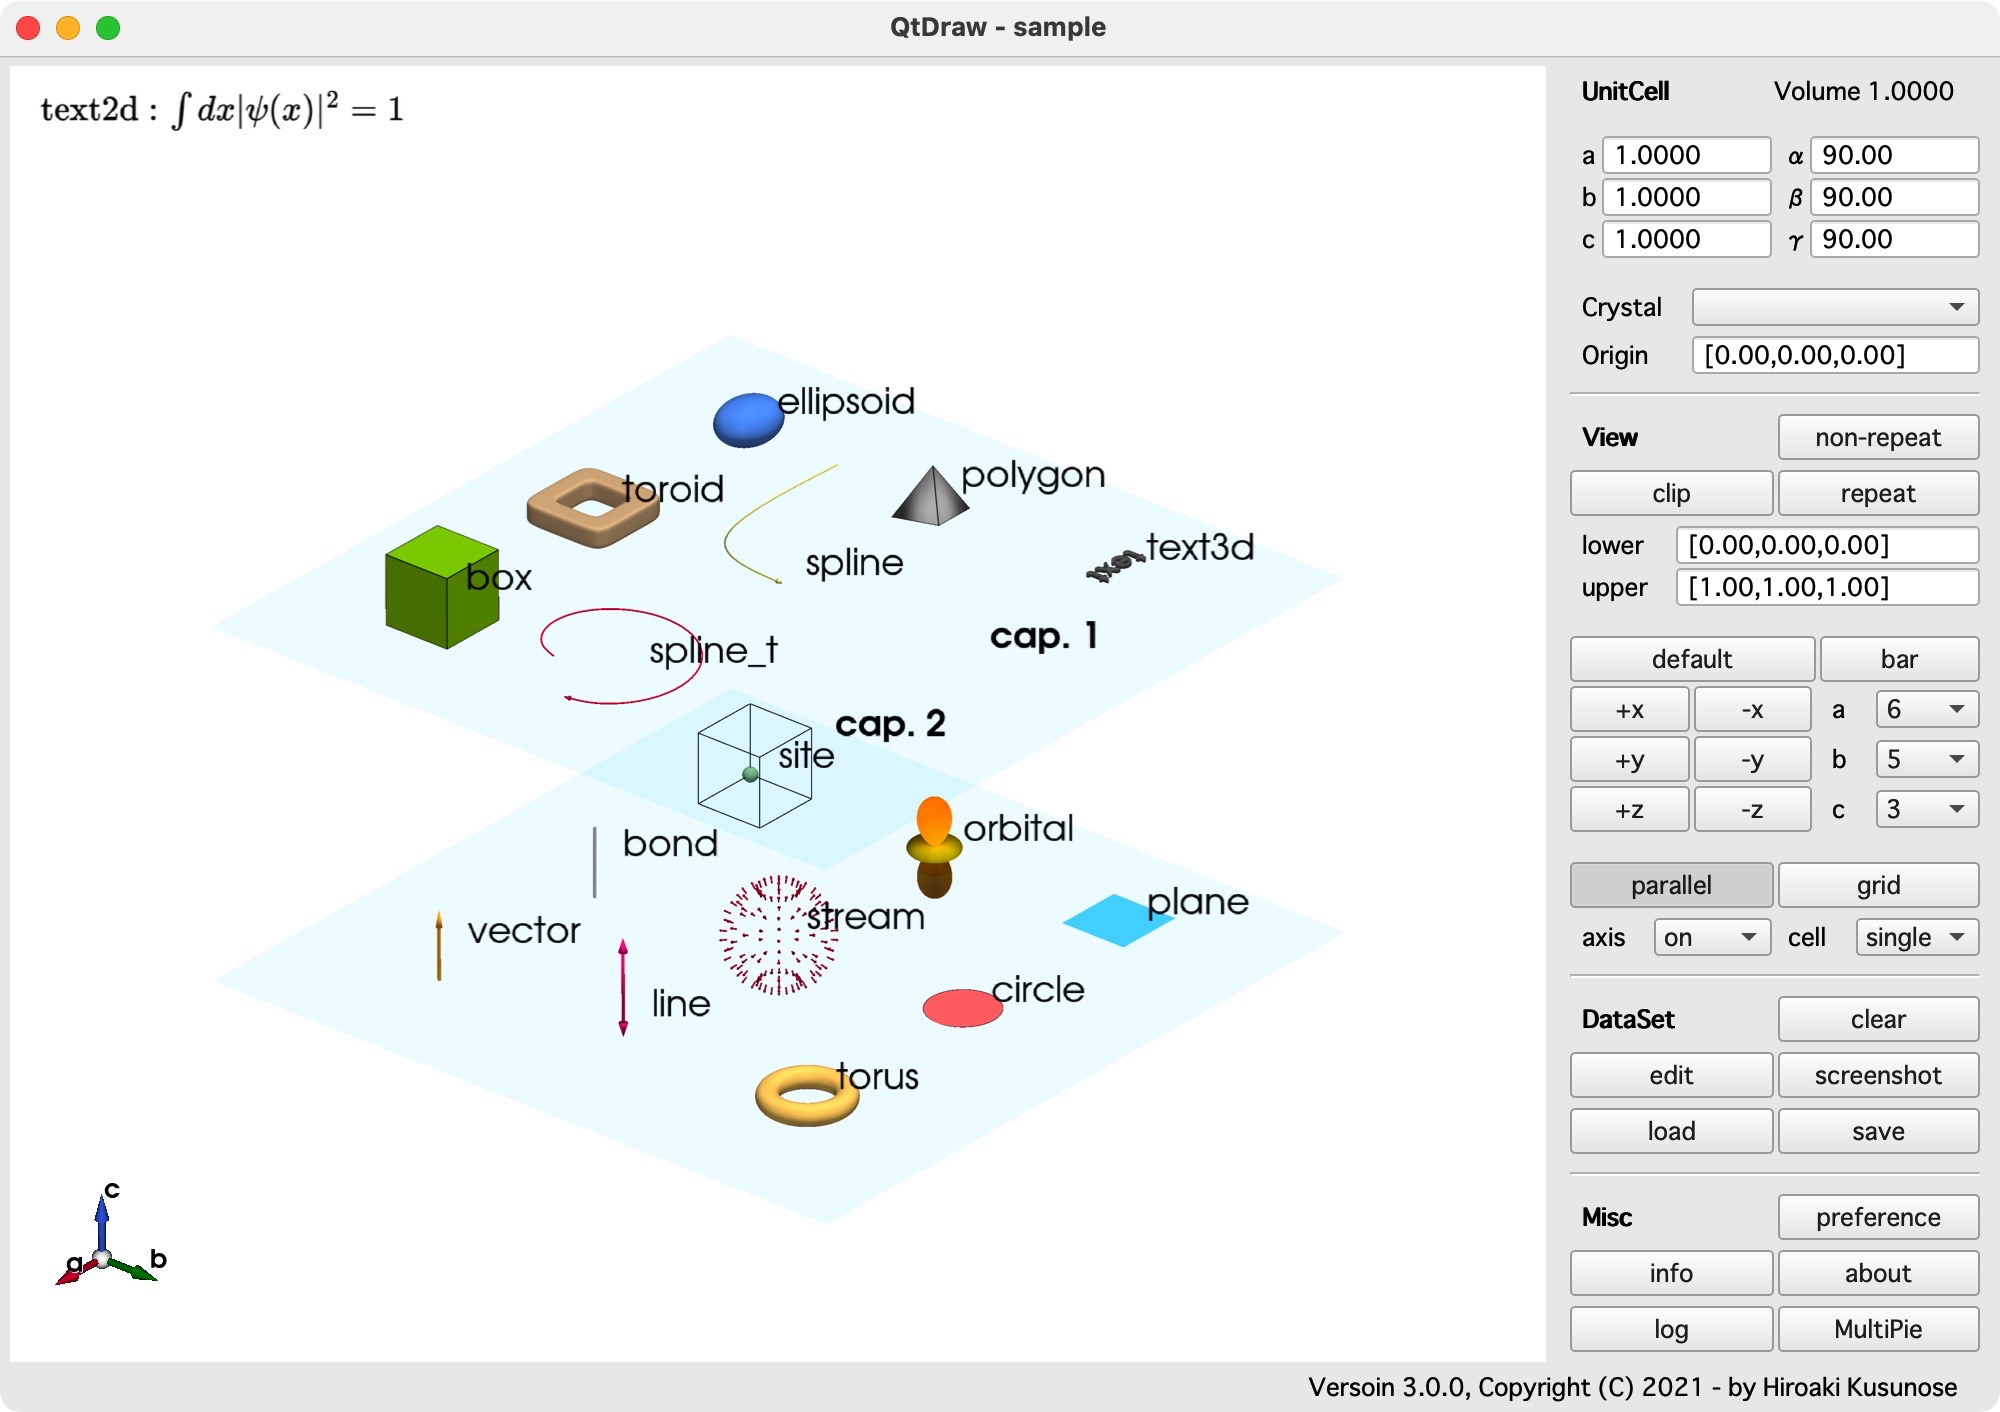
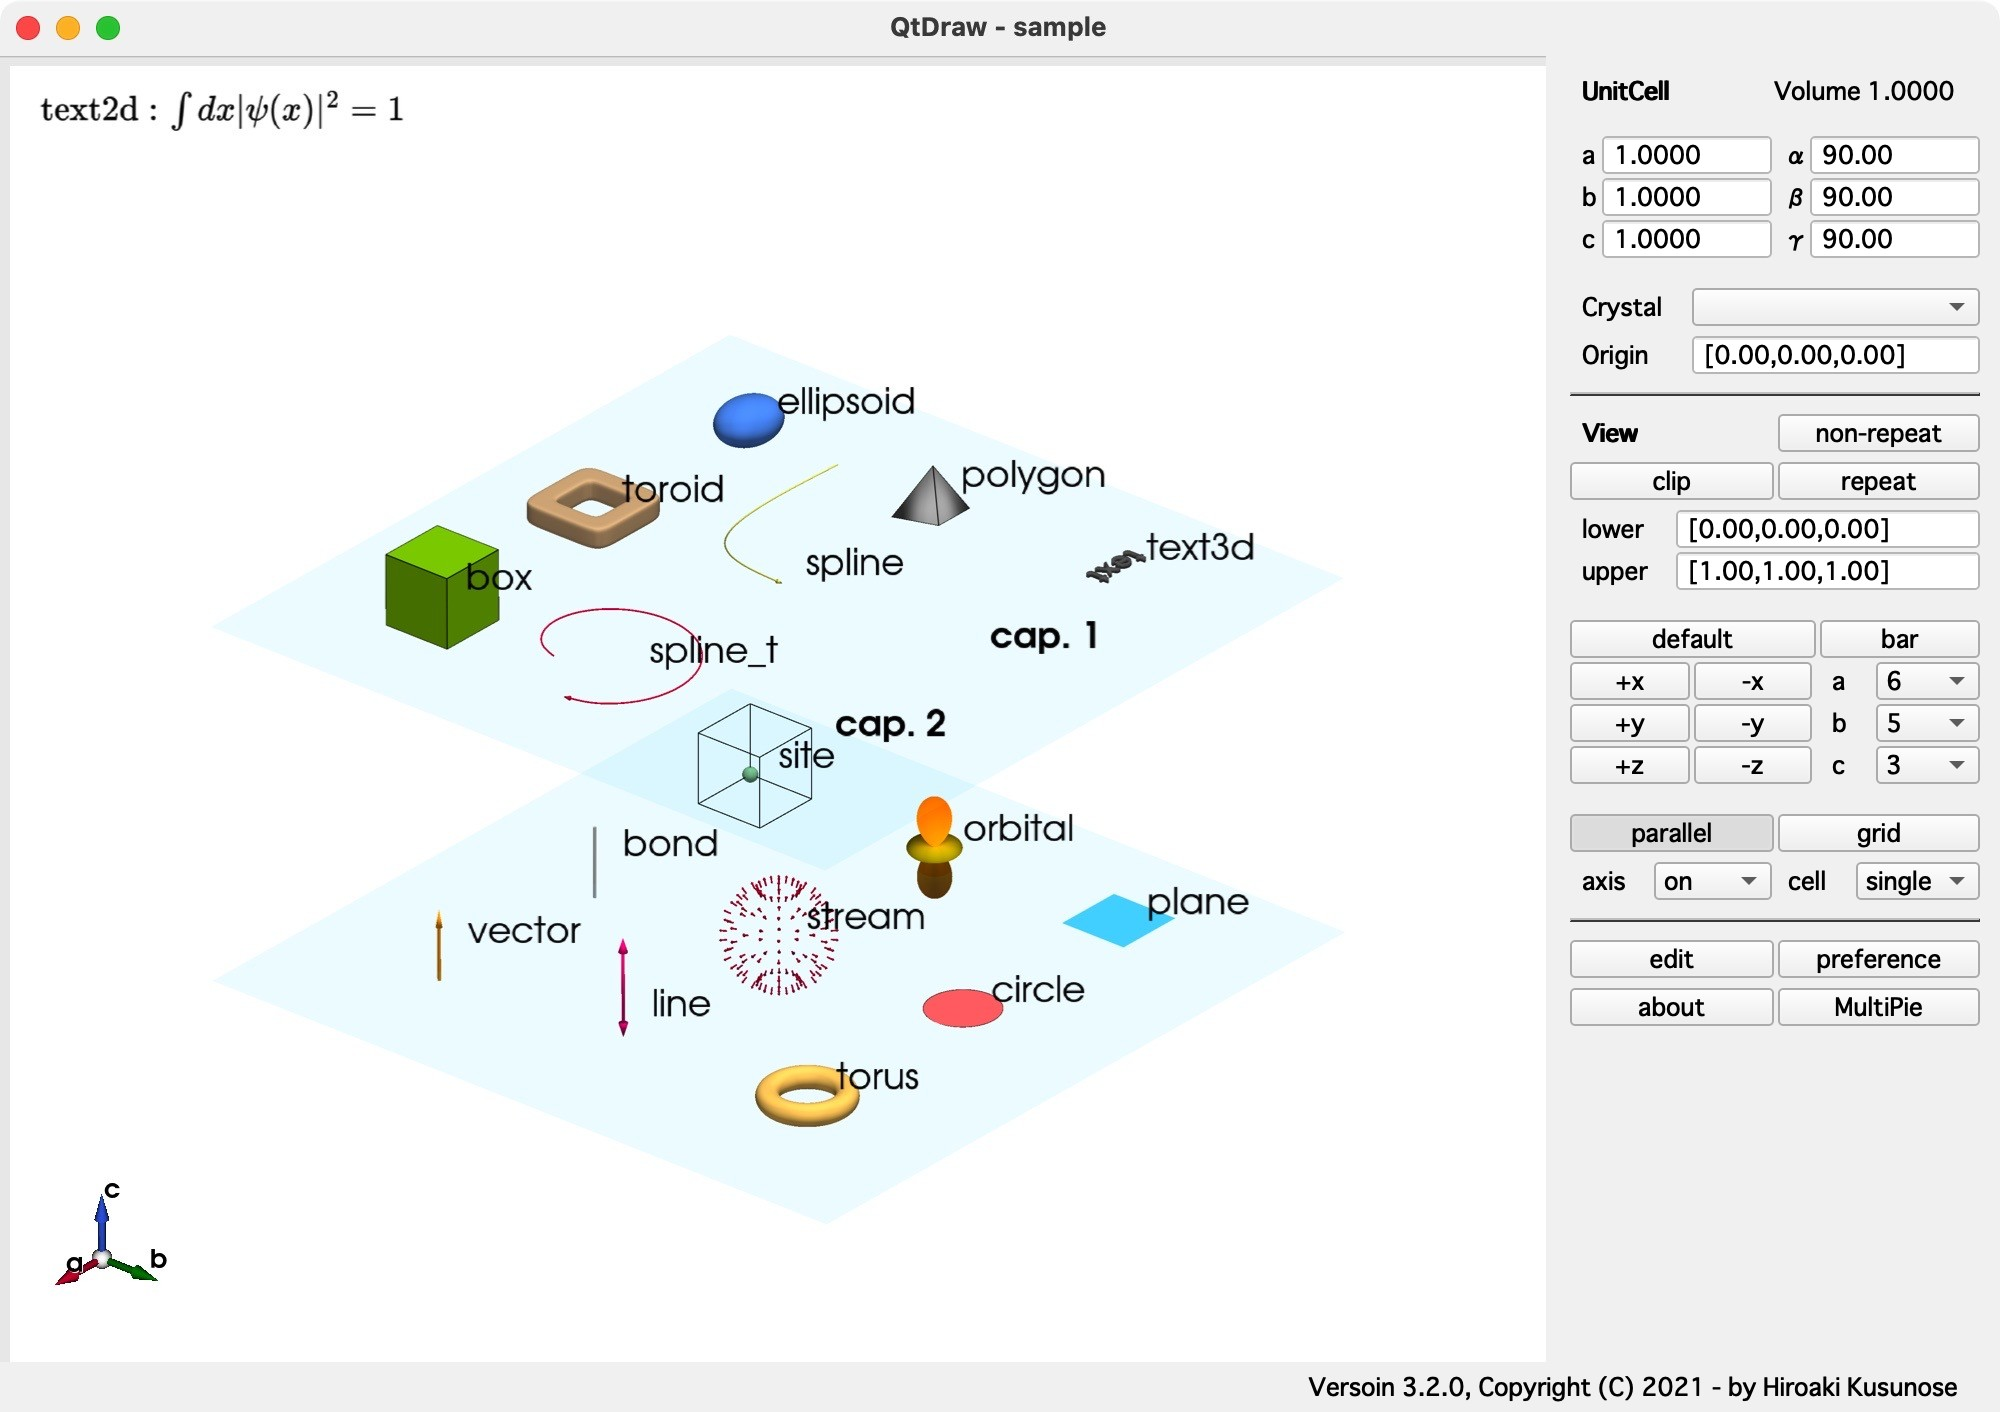
Update the main window figure and the function table for the new panel
Claude-Session: https://claude.ai/code/session_01GH3jHZ5TE1BmyXobYxcbH5

Changed region(s): [[0.775, 0.2805, 0.992, 0.8102], [0.806, 0.8414, 0.992, 0.966], [0.775, 0.8414, 0.806, 0.8725]]

diff --git a/docs/src/function_table.md b/docs/src/function_table.md
@@ -22,8 +22,7 @@
 | create_panel | create right panel. |
 | create_gui_unit_cell | Create unit cell panel. |
 | create_gui_view | Create view panel. |
-| create_gui_dataset | Create dataset panel. |
-| create_gui_misc | Create misc. panel. |
+| create_gui_buttons | Create button panel (other commands are in the menu bar). |
 | create_gui_debug | Create debug panel. |
 | _update_panel | Update widget in panel. |
 | _update_application | Update application sytle. |
